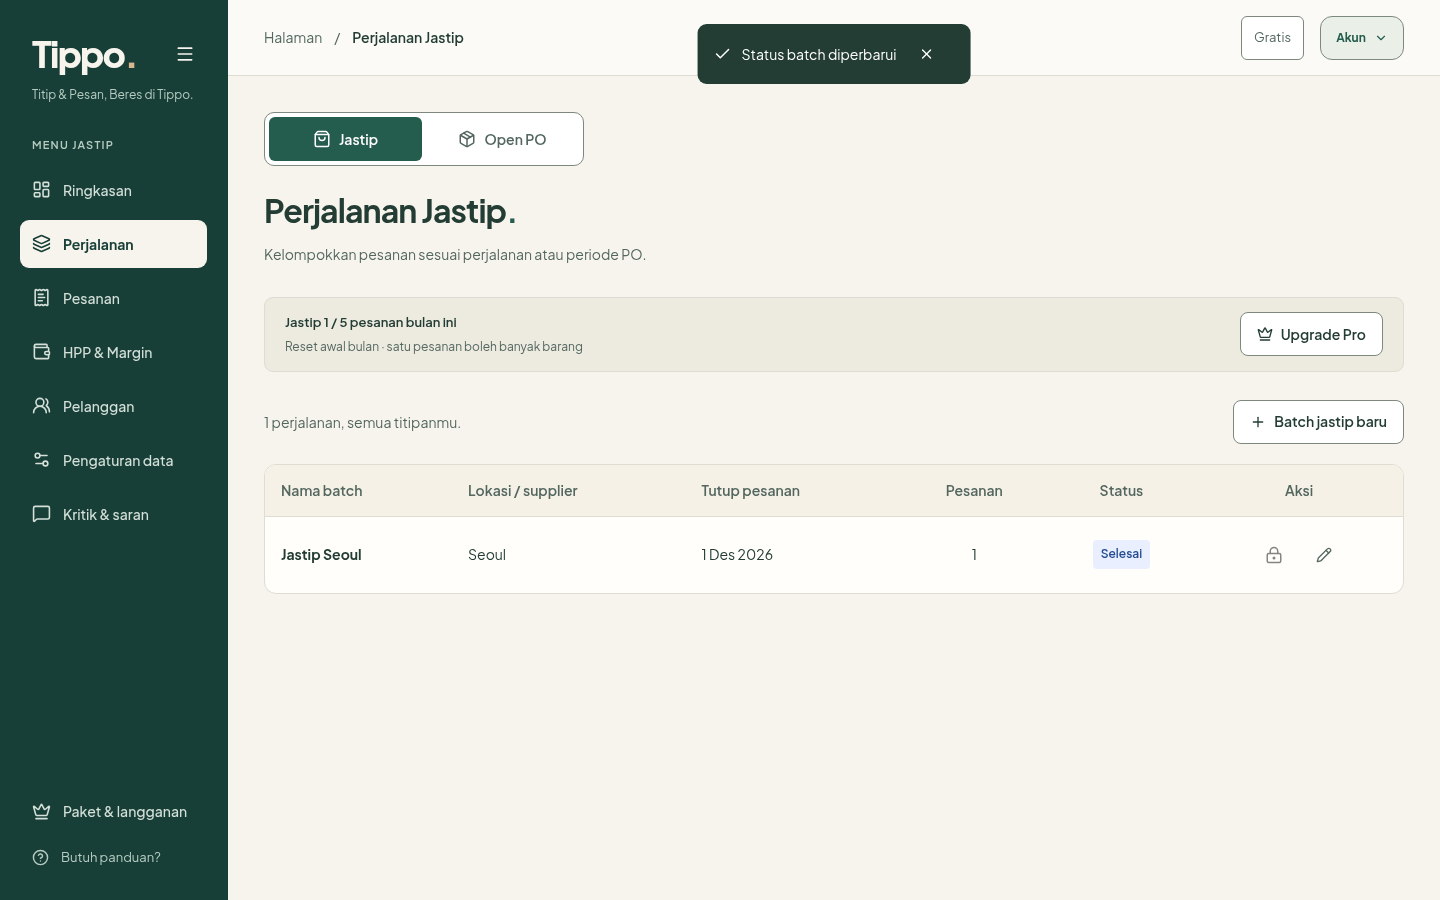
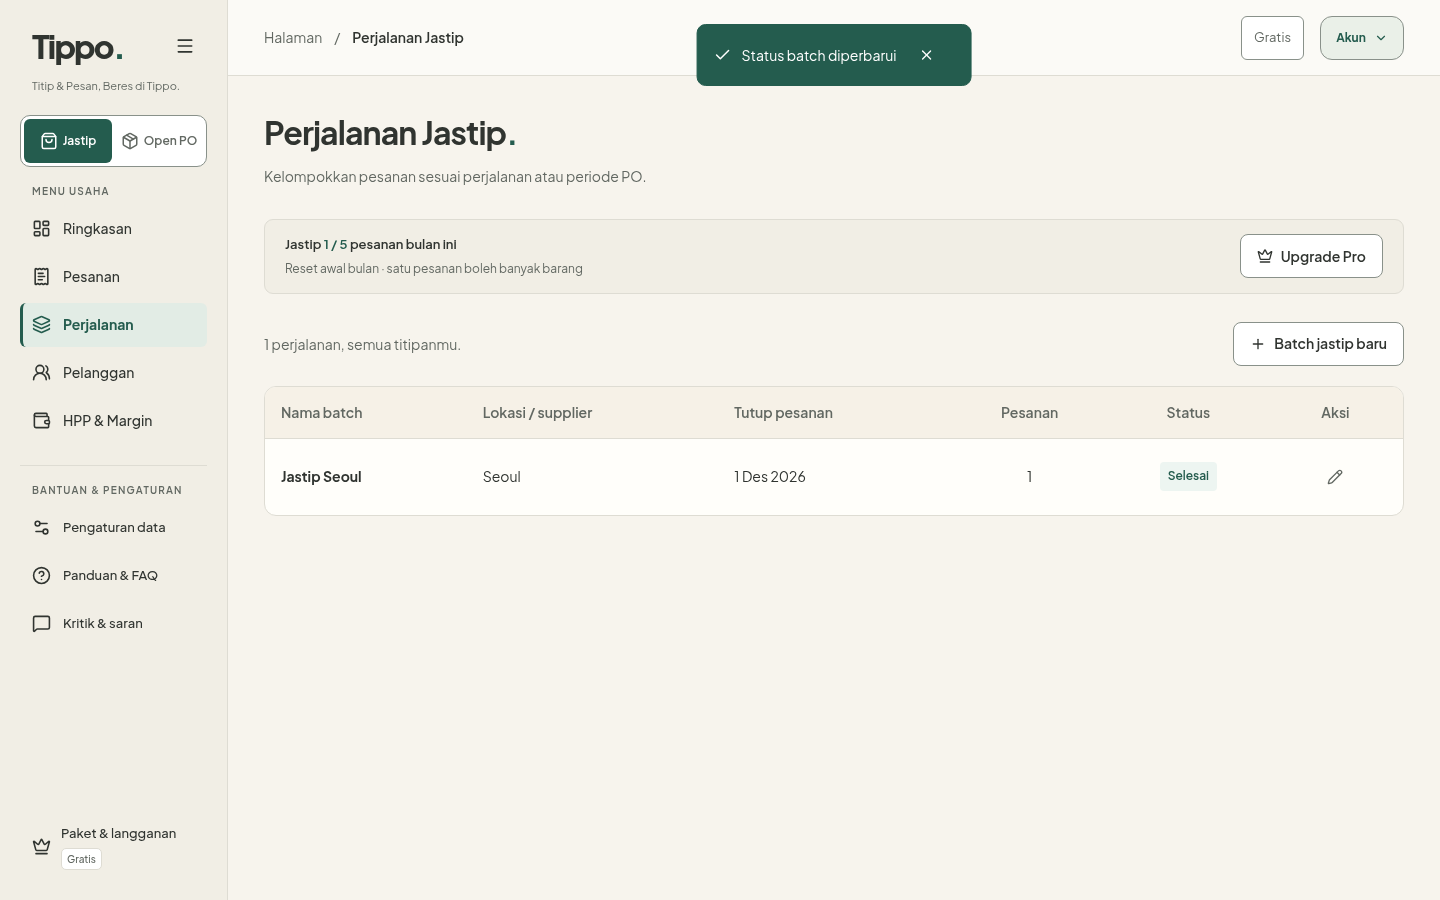
Align batch status colors and show only edit for completed batches

diff --git a/src/components/po-management-tables.tsx b/src/components/po-management-tables.tsx
@@ -3,7 +3,7 @@ import {useState} from "react";
 import {BatchStatusDialog} from "@/components/batch-status-dialog";
 import {batchStatusLabels} from "@/lib/batch-status";
 import {MobileDataList} from "@/components/mobile-data-list";
-import {Archive,ArchiveRestore,CircleArrowRight,CircleCheck,LockKeyhole,Pencil} from "lucide-react";
+import {Archive,ArchiveRestore,CircleArrowRight,CircleCheck,Pencil} from "lucide-react";
 import {formatCurrency} from "@/lib/finance";
 import type {Product,Batch,Order} from "@/lib/types";
 export function ProductsTable({products,onEdit,onRemove}:{products:Product[];onEdit:(p:Product)=>void;onRemove:(p:Product)=>void}){
@@ -16,15 +16,16 @@ export function BatchesTable({ title, batches, orders, onEdit, onStatus }: {
 }) {
  const [changing, setChanging] = useState<Batch | null>(null);
  const count = (batch: Batch) => orders.filter(order => order.batchId === batch.id && order.status !== "cancelled").length;
- const badge = (batch: Batch) => <span className={`status-tag status-${batch.status === "open" ? "done" : batch.status === "closed" ? "cancelled" : "shipped"}`}>{batchStatusLabels[batch.status]}</span>;
+ const badge = (batch: Batch) => <span className={`status-tag batch-status-${batch.status}`}>{batchStatusLabels[batch.status]}</span>;
  const statusAction = (batch: Batch) => batch.status === "completed"
-   ? <span className="batch-status-locked" role="img" aria-label={`Status terkunci ${batch.name}`} title="Status terkunci"><LockKeyhole size={18} aria-hidden="true" /></span>
+   ? null
    : <button className="icon-button" data-close-detail aria-label={`${batch.status === "open" ? "Tutup batch" : "Selesaikan batch"} ${batch.name}`} title={batch.status === "open" ? "Tutup batch" : "Selesaikan batch"} onClick={() => setChanging(batch)}>{batch.status === "open" ? <CircleArrowRight size={18} aria-hidden="true" /> : <CircleCheck size={18} aria-hidden="true" />}</button>;
  return <>
    <MobileDataList entries={batches.map(batch => ({
      id: batch.id, title: batch.name, subtitle: batch.origin || "Lokasi belum diisi",
      meta: `${new Date(`${batch.closeDate}T00:00:00`).toLocaleDateString("id-ID", { day: "numeric", month: "short" })} · ${count(batch)} pesanan`,
      status: batchStatusLabels[batch.status],
+     statusClassName: `status-tag batch-status-${batch.status}`,
      details: <><dl className="mobile-detail-fields"><dt>Lokasi / supplier</dt><dd>{batch.origin || "Belum diisi"}</dd><dt>Tutup pesanan</dt><dd>{batch.closeDate}</dd><dt>Jumlah pesanan</dt><dd>{count(batch)}</dd><dt>Status</dt><dd>{badge(batch)}</dd></dl>{statusAction(batch)}<button className="btn btn-primary" data-close-detail onClick={() => onEdit(batch)}>Edit batch</button></>,
    }))} />
    <div className="card management-table-wrap desktop-data-table"><table className="management-table" aria-label={title}>

diff --git a/tests/website.spec.ts b/tests/website.spec.ts
@@ -753,7 +753,7 @@ test("Pro keeps the chosen historical month visible when the other business has 
  const data=twoBusinessWorkspace(),source=data.orders[0];data.orders.push({...source,id:"old-jastip-only",date:"2024-01-10",createdAt:"2024-01-10T00:00:00Z",refunds:[],paid:0,items:source.items.map(item=>({...item,id:"old-jastip-only-item"}))});await authenticate(page,{workspace:data,pro:true});await page.goto("/app");await chooseOption(page.getByLabel("Pilih bulan ringkasan"),"2024-01");await page.getByRole("group",{name:"Pilih usaha"}).getByRole("button",{name:"Open PO",exact:true}).click();await expect(page.getByLabel("Pilih bulan ringkasan")).toHaveAttribute("data-value","2024-01");await expect(page.getByLabel("Pilih bulan ringkasan")).toContainText("Januari 2024");await expect(page.locator(".unpaid-card")).toContainText("Belum ada tagihan bulan ini.");await expect(page.locator(".stats-grid .stat-value").first()).toContainText("Rp 0");
 });
 
-for (const [business,width] of [["Open PO",1440],["Jastip",1440],["Open PO",390]] as const) {
+for (const [business,width] of [["Open PO",1440],["Jastip",1440],["Open PO",390],["Jastip",390]] as const) {
  test(`batch status advances irreversibly with confirmation ${business} ${width}`, async ({page}) => {
   await page.setViewportSize({width,height:900});
   const data=twoBusinessWorkspace(), requests=await authenticate(page,{workspace:data});
@@ -780,7 +780,9 @@ for (const [business,width] of [["Open PO",1440],["Jastip",1440],["Open PO",390]
   expect(requests[1].p_data.batches.find(b=>b.id===batch.id)!.status).toBe("completed");
   if(width<600)await page.getByRole("button",{name:`Detail ${batch.name}`,exact:true}).click();
   await expect(page.getByRole("button",{name:new RegExp(`^(Tutup batch|Selesaikan batch) ${batch.name}$`)})).toHaveCount(0);
-  await expect(page.getByRole("img",{name:`Status terkunci ${batch.name}`,exact:true}).filter({visible:true})).toBeVisible();
+  await expect(page.getByRole("img",{name:`Status terkunci ${batch.name}`,exact:true})).toHaveCount(0);
+  const actions=width<600?page.getByRole("dialog",{name:`Detail ${batch.name}`,exact:true}).locator(".modal-body"):page.getByRole("row").filter({hasText:batch.name}).locator(".management-actions");
+  await expect(actions.getByRole("button")).toHaveCount(1);await expect(actions.getByRole("button",{name:width<600?"Edit batch":`Edit batch ${batch.name}`,exact:true})).toBeVisible();
   await page.screenshot({path:`docs/preview-batch-locked-${business==="Open PO"?"po":"jastip"}-${width}.png`});
   if(width<600)await page.getByRole("button",{name:"Tutup detail",exact:true}).click();
   await page.reload();await expect(page.getByRole("heading",{name:`Ringkasan ${business}.`,exact:true})).toBeVisible();

diff --git a/src/components/batch-status-dialog.tsx b/src/components/batch-status-dialog.tsx
@@ -41,7 +41,7 @@ export function BatchStatusDialog({ batch, onClose, onSave }: {
     <div className="modal-header"><h2 id="batch-status-title">Ubah status {batch.type === "po" ? "batch PO" : "perjalanan"}</h2><button className="icon-button" aria-label="Tutup perubahan status" disabled={busy} onClick={onClose}><X size={20} /></button></div>
     <div className="modal-body batch-status-body">
       <strong>{batch.name}</strong>
-      <div className="batch-status-flow" aria-label="Perubahan status"><span className={`status-tag status-${batch.status === "open" ? "done" : "cancelled"}`}>{batchStatusLabels[batch.status]}</span><ArrowRight size={18} aria-hidden="true" /><span className={`status-tag status-${next === "completed" ? "shipped" : "cancelled"}`}>{next ? batchStatusLabels[next] : "Selesai"}</span></div>
+      <div className="batch-status-flow" aria-label="Perubahan status"><span className={`status-tag batch-status-${batch.status}`}>{batchStatusLabels[batch.status]}</span><ArrowRight size={18} aria-hidden="true" /><span className={`status-tag batch-status-${next ?? "completed"}`}>{next ? batchStatusLabels[next] : "Selesai"}</span></div>
       <p id="batch-status-impact">{next === "closed" ? "Batch tidak akan muncul pada pilihan batch untuk pesanan baru. Pesanan yang sudah ada tetap dapat diproses. Batch yang ditutup tidak bisa dibuka kembali." : "Status batch akan terkunci dan tidak bisa diubah lagi. Status setiap pesanan tetap mengikuti perubahan yang Anda buat pada pesanan."}</p>
       {error && <p className="error-message" role="alert">{error}</p>}
     </div>

diff --git a/src/app/theme.css b/src/app/theme.css
@@ -265,6 +265,9 @@
 .order-status-new,.mobile-row-heading small.order-status-new { color:var(--order-blue); background:var(--order-blue-soft); }
 .order-status-shipped,.mobile-row-heading small.order-status-shipped { color:var(--order-purple); background:var(--order-purple-soft); }
 .order-status-done,.mobile-row-heading small.order-status-done { color:var(--success); background:var(--success-soft); }
+.batch-status-open,.mobile-row-heading small.batch-status-open { color:var(--order-blue); background:var(--order-blue-soft); }
+.batch-status-closed,.mobile-row-heading small.batch-status-closed { color:var(--muted); background:var(--tone-surface-e9eae7); }
+.batch-status-completed,.mobile-row-heading small.batch-status-completed { color:var(--success); background:var(--success-soft); }
 .order-status-cancelled,.mobile-row-heading small.order-status-cancelled { color:var(--danger); background:var(--tone-surface-fff2ed); }
 .payment-paid { color:var(--success); }
 .payment-partial { color:var(--payment-partial); }

diff --git a/src/app/globals.css b/src/app/globals.css
@@ -896,5 +896,3 @@ input:disabled, textarea:disabled, input[readonly], textarea[readonly], .select-
 .pro-invoice-empty p { color: var(--muted); line-height: 1.8; }
 @media (max-width: 600px) { .pro-invoice-body { padding: 20px; } .pro-invoice-details { grid-template-columns: 1fr; gap: 8px; } .pro-invoice-details dd { margin-bottom: 8px; } .pro-invoice-actions { flex-direction: column; } }
 .batch-status-flow { display: flex; align-items: center; gap: 12px; }
-.batch-status-locked { display: inline-flex; align-items: center; justify-content: center; width: 44px; height: 44px; color: #858582; flex-shrink: 0; }
-:root[data-theme="dark"] .batch-status-locked { color: #a3aaa5; }
